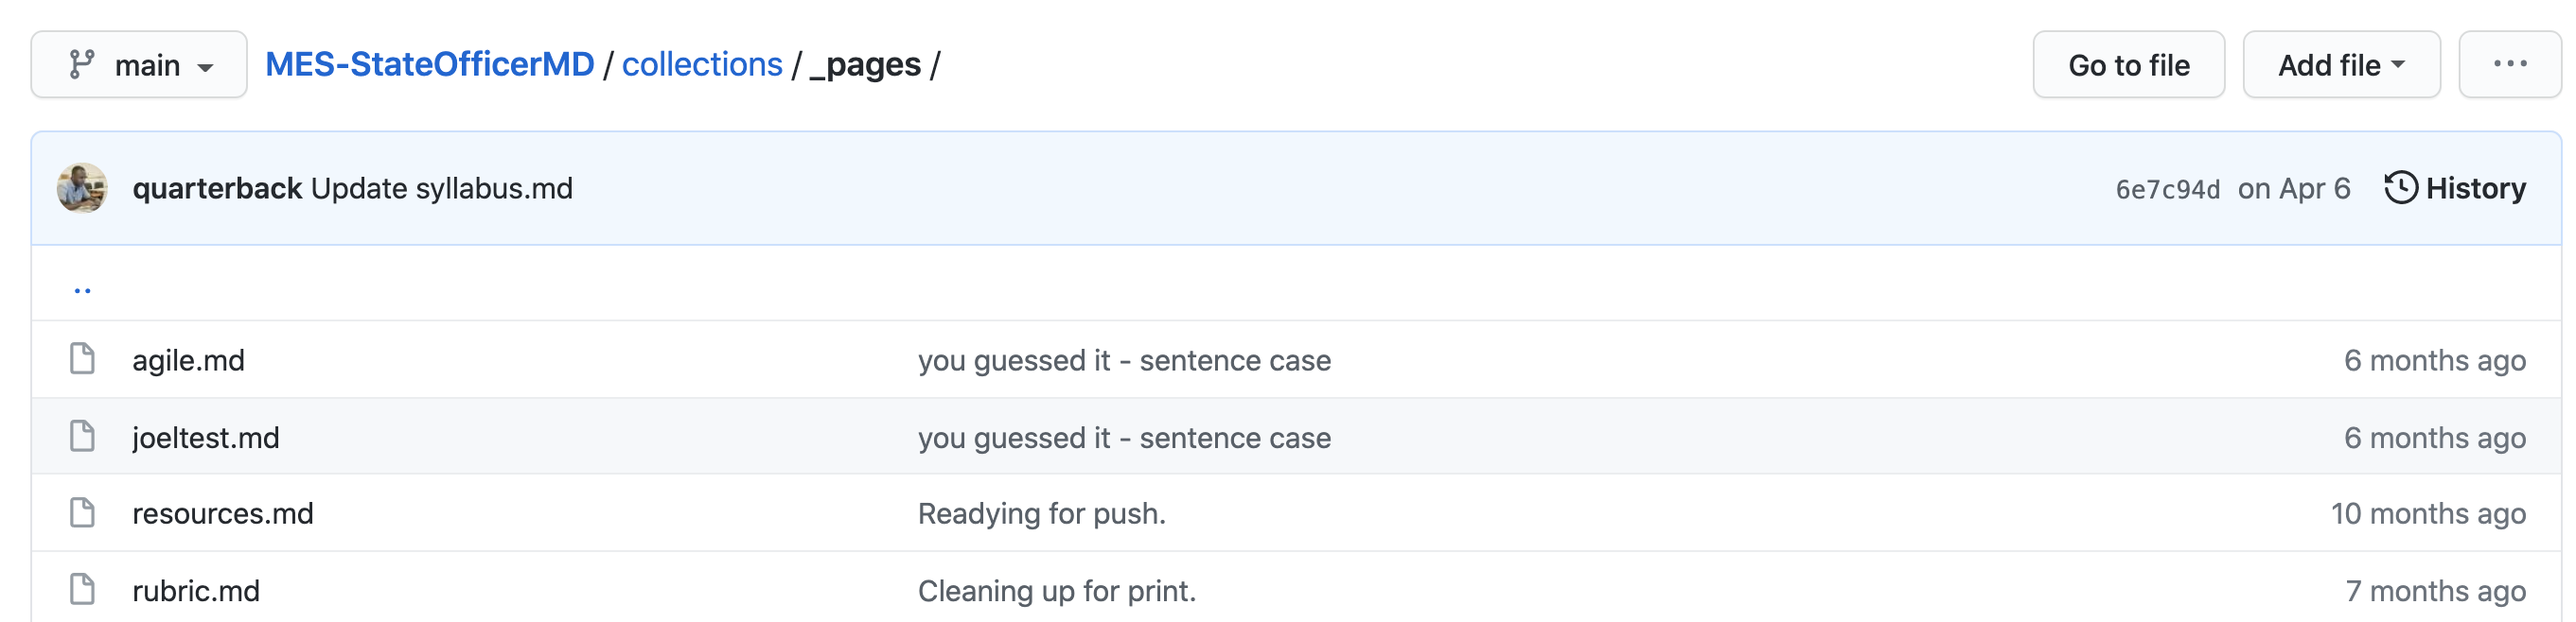
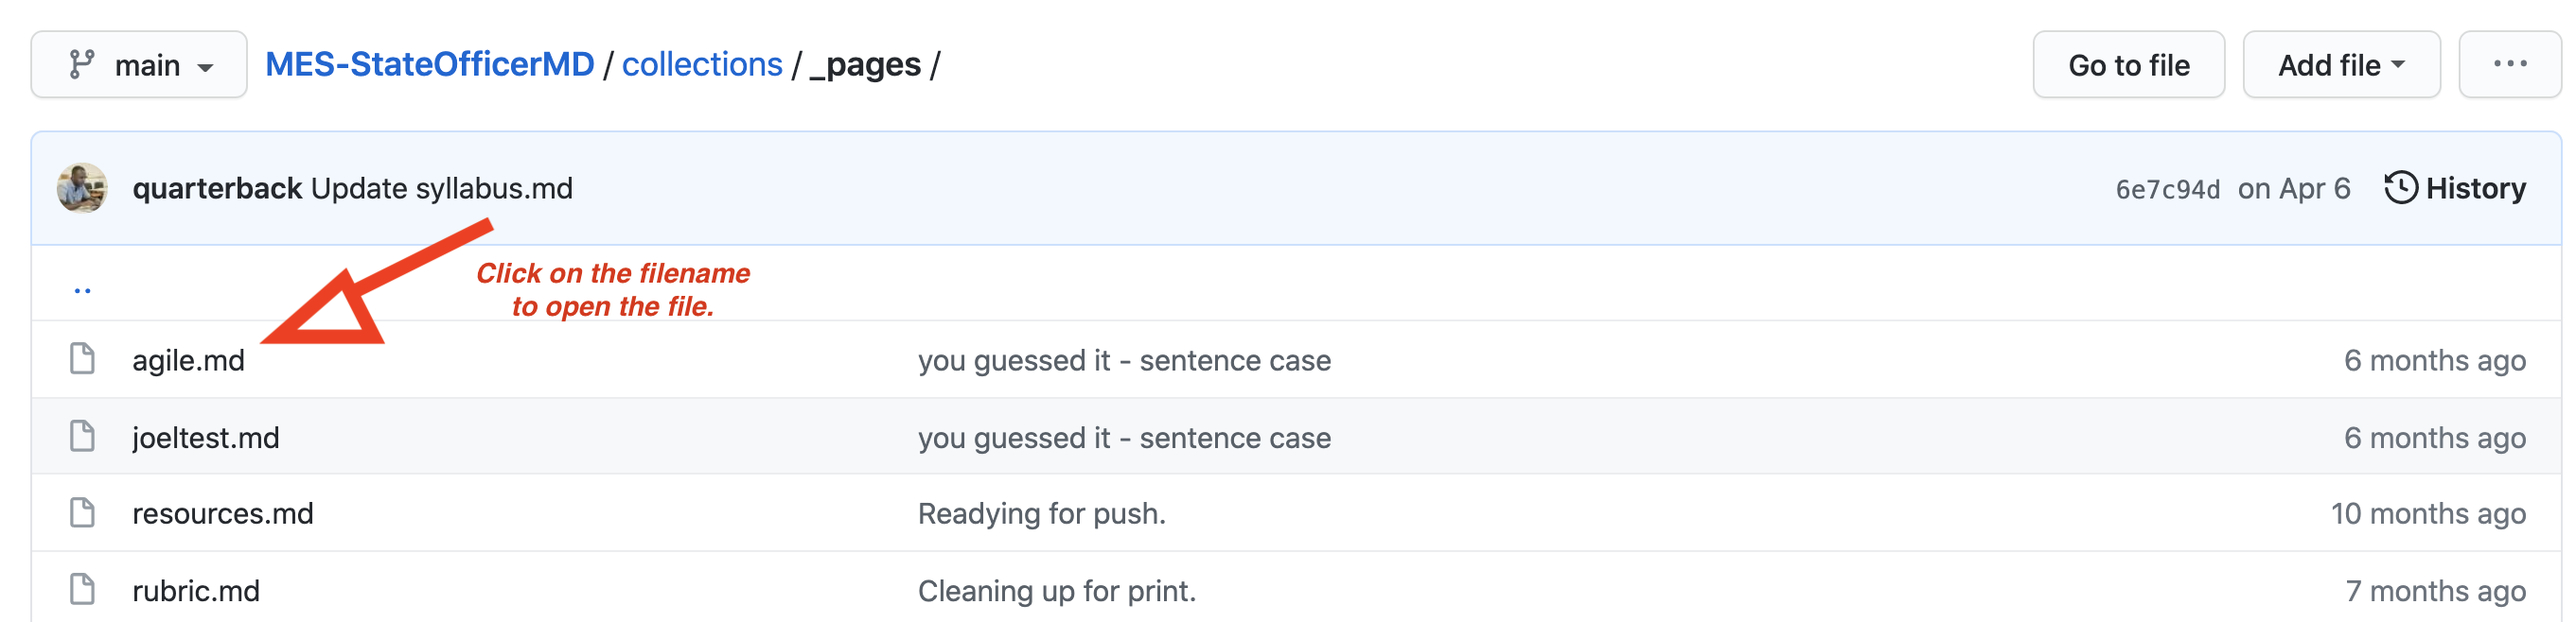
Finished "simple edits" section.
Committing before moving on to the "more complex" commits portion.

Changed region(s): [[0.0937, 0.3647, 0.3123, 0.5775], [0.1874, 0.4863, 0.281, 0.5167]]

diff --git a/MAINTENANCE.md b/MAINTENANCE.md
@@ -7,3 +7,22 @@ This is a **live site**. What that means is edits made to this repository will r
 If you find a typo that you want to correct in the site, your workflow will look like this. First, find the page you want to edit. I'll use the `agile.md` file in the `_pages` directory as an example.
 
 ![The _pages directory](assets/images/pages-view.png)
+
+Click on `agile.md`, and then the pencil icon in the upper right-hand side of the page. This lets you edit the file directly in Github.
+
+![The edit button](assets/images/edit-button.png)
+
+Now, edit away! Hopefully, you're only making a quick change... for example, correcting a typo someone made. When you're done, write a descriptive commit message. It is good practice to leave a note for people in the future that makes clear what you did.
+
+![Committing a change](assets/images/committing-a-change.png)
+
+Admittedly, when fixing a typo, your commit message might be brief. If your edits are more substantial, you may want to explain why you made the edits/changes/additions that you did.
+
+When you're done, hit **Commit changes**. This will add your changes to the site, and Github will automatically begin working to publish your site. It takes around 1-2 minutes for the GH Pages site to update.
+
+## The (more complex) workflow
+
+If you have more substantial changes, you should do the edits on your local machine, view/verify your edits locally, and *then* commit them to the repository. 
+
+
+
